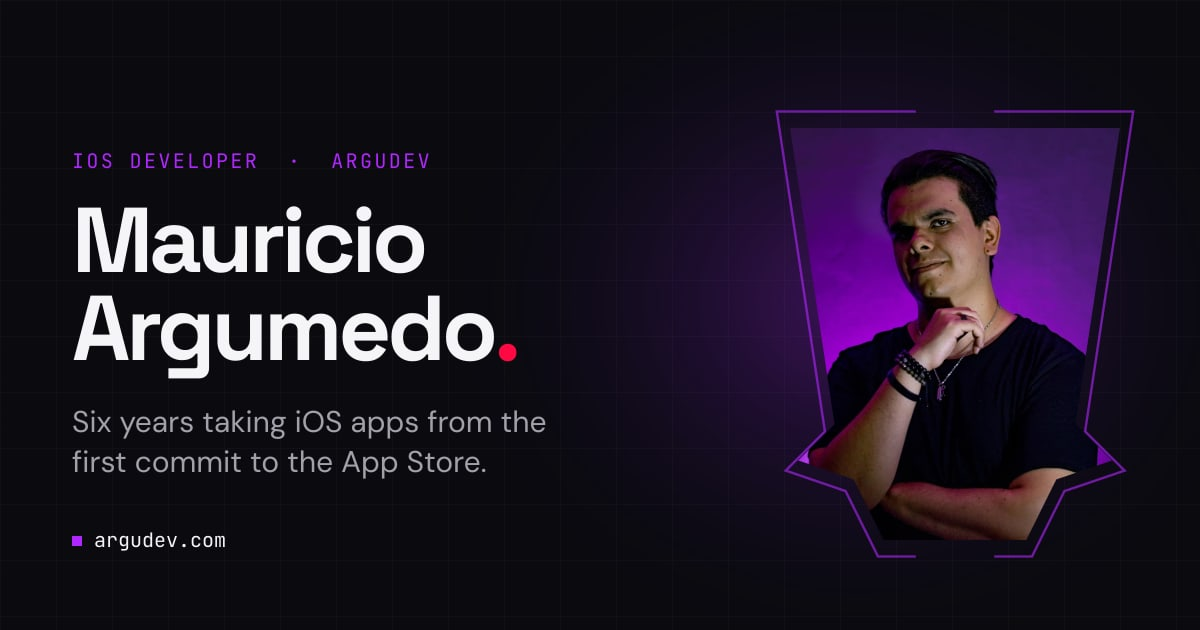
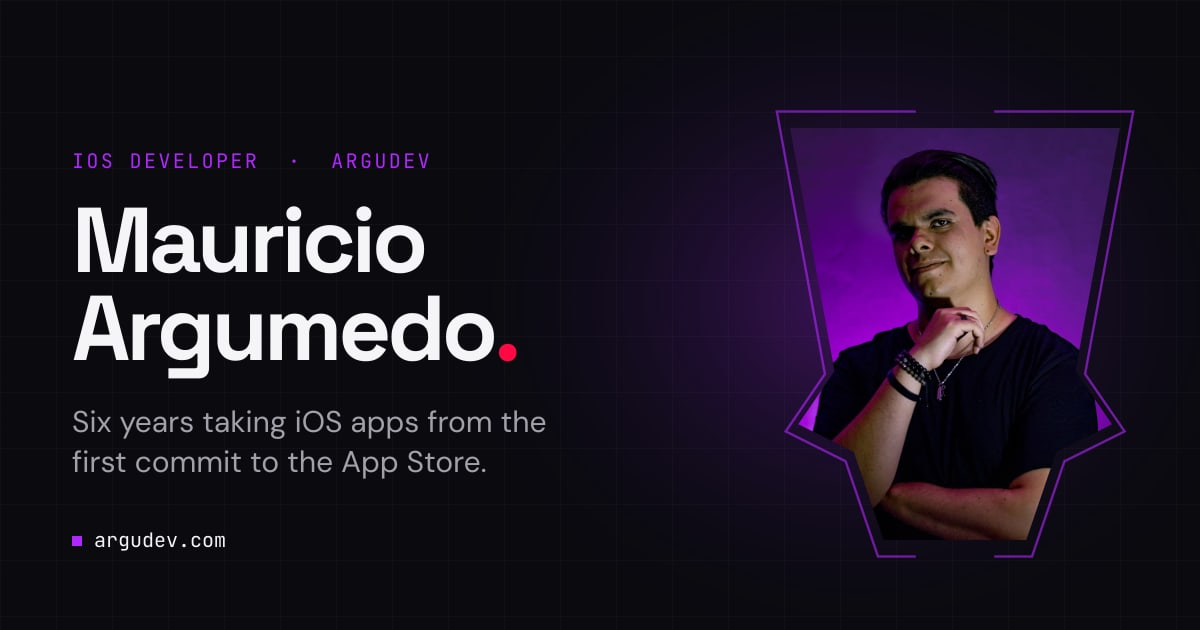
Restore the first mask silhouette, keeping the caption fix
Goes back to the silhouette stretched to 4:5 (steeper cheeks and jaw),
which the author preferred over the mark-proportioned version. The
caption keeps its spacing below the outline, and og.jpg is regenerated
with the restored shape.

Changed region(s): [[0.6475, 0.2413, 0.74, 0.8746], [0.8633, 0.2111, 0.9558, 0.8746]]

diff --git a/src/styles/globals.css b/src/styles/globals.css
@@ -92,14 +92,13 @@ body {
     padding: 1px;
 }
 
-/* Mask: the mark's outer silhouette fitted to a 4:5 portrait. Cheeks and chin keep
-   the mark's own proportions; the extra height goes into the sloped sides.
-   Same points as MaskOutline. */
+/* Mask: the mark's outer silhouette fitted to a 4:5 portrait — sloped sides,
+   cheek points and a narrow chin. Same points as MaskOutline. */
 .mask-face {
     clip-path: polygon(
         0 0, 100% 0,
-        86.5% 71.9%, 97.6% 80.7%, 80.7% 85.3%, 71.6% 100%,
-        28.4% 100%, 19.3% 85.3%, 2.5% 80.7%, 13.5% 71.9%
+        86.5% 59%, 97.6% 71.9%, 80.7% 78.6%, 71.6% 100%,
+        28.4% 100%, 19.3% 78.6%, 2.5% 71.9%, 13.5% 59%
     );
 }
 

diff --git a/src/components/MaskOutline.tsx b/src/components/MaskOutline.tsx
@@ -2,8 +2,8 @@
 // halves: a gap at the top between its brackets and one at the chin.
 // Points are percentages of the portrait, the same ones as .mask-face in globals.css.
 const HALVES = [
-  [[39, 0], [0, 0], [13.5, 71.9], [2.5, 80.7], [19.3, 85.3], [28.4, 100], [39, 100]],
-  [[61, 0], [100, 0], [86.5, 71.9], [97.6, 80.7], [80.7, 85.3], [71.6, 100], [61, 100]],
+  [[39, 0], [0, 0], [13.5, 59], [2.5, 71.9], [19.3, 78.6], [28.4, 100], [39, 100]],
+  [[61, 0], [100, 0], [86.5, 59], [97.6, 71.9], [80.7, 78.6], [71.6, 100], [61, 100]],
 ]
 
 // The portrait is 100 x 125 user units; the outline is its silhouette scaled up from the center
